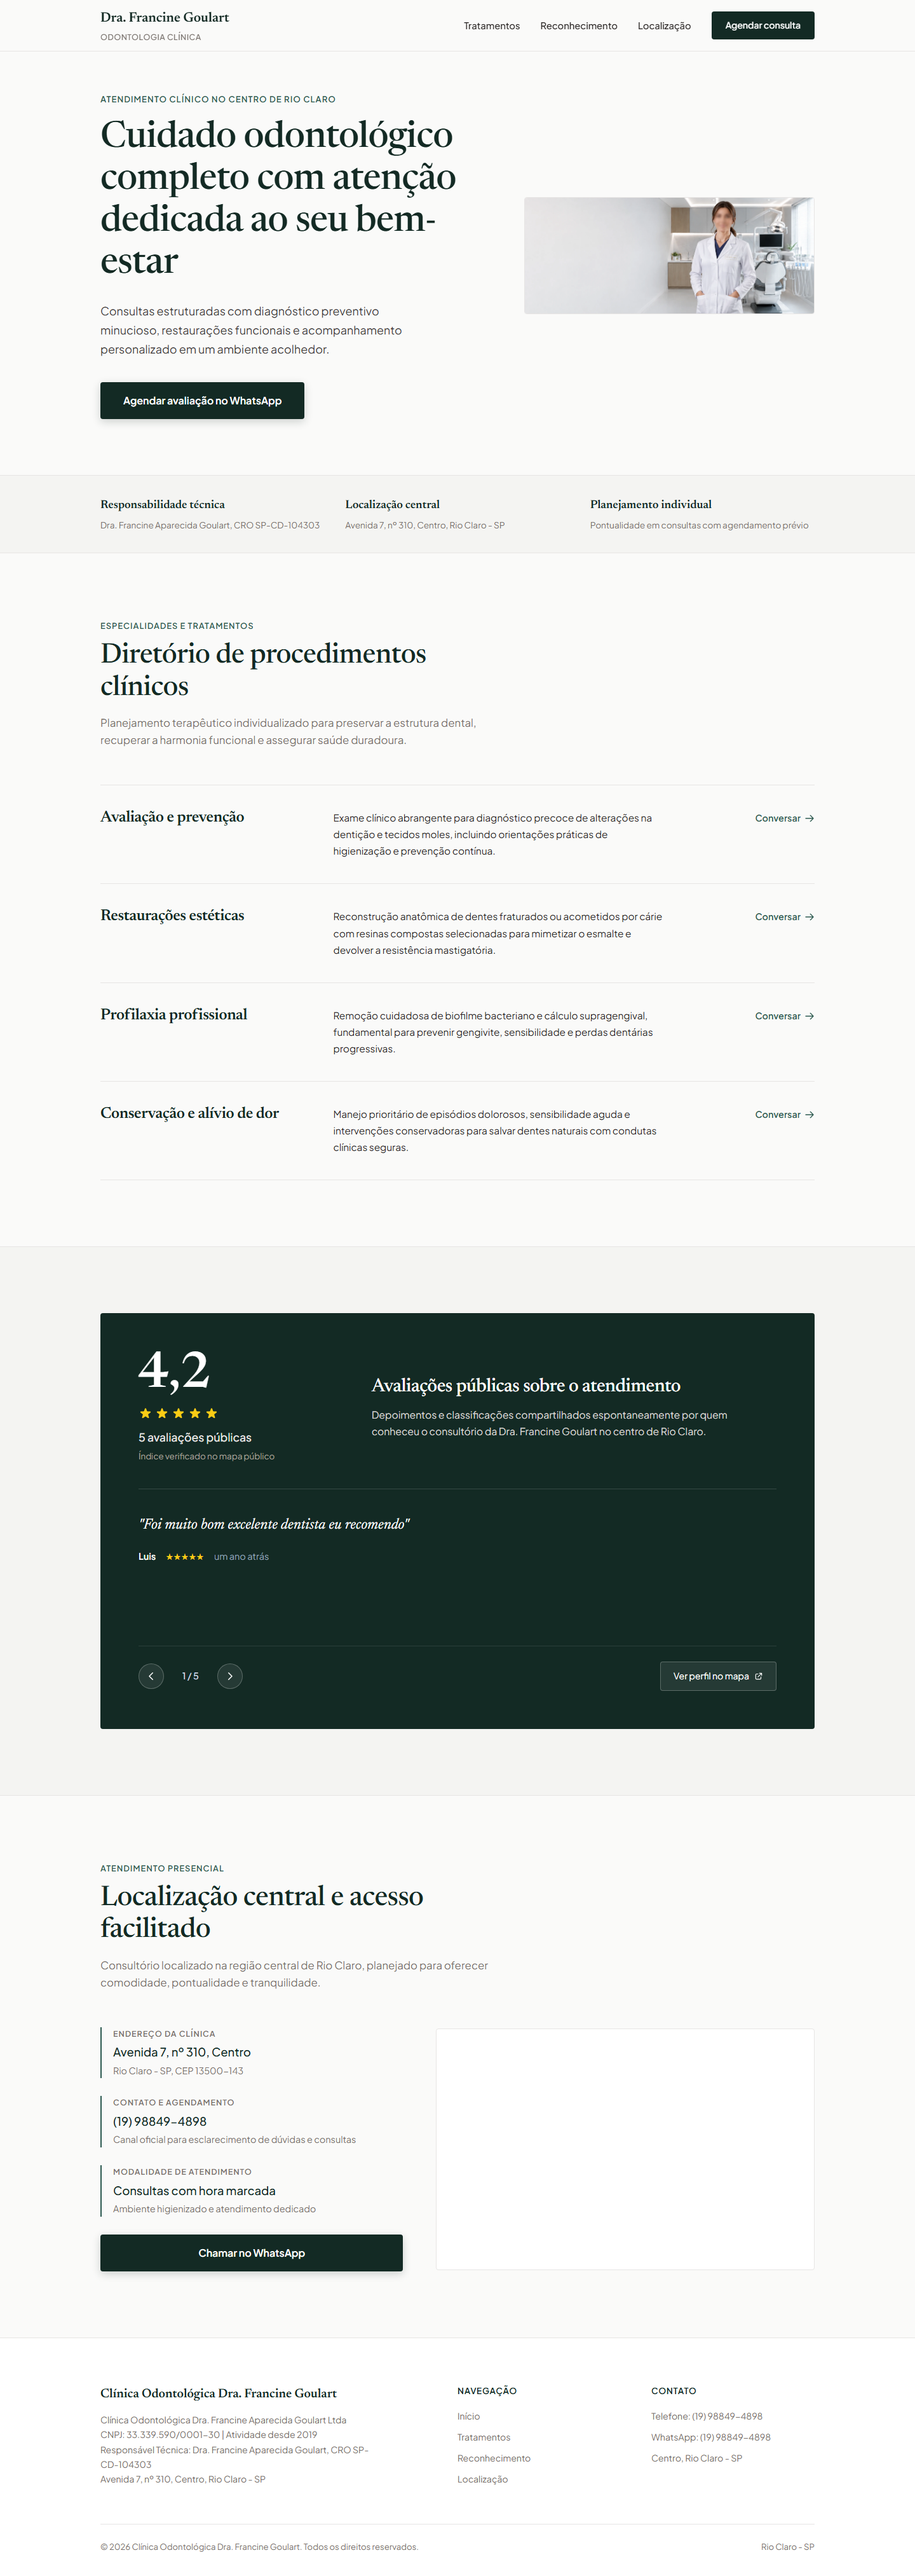
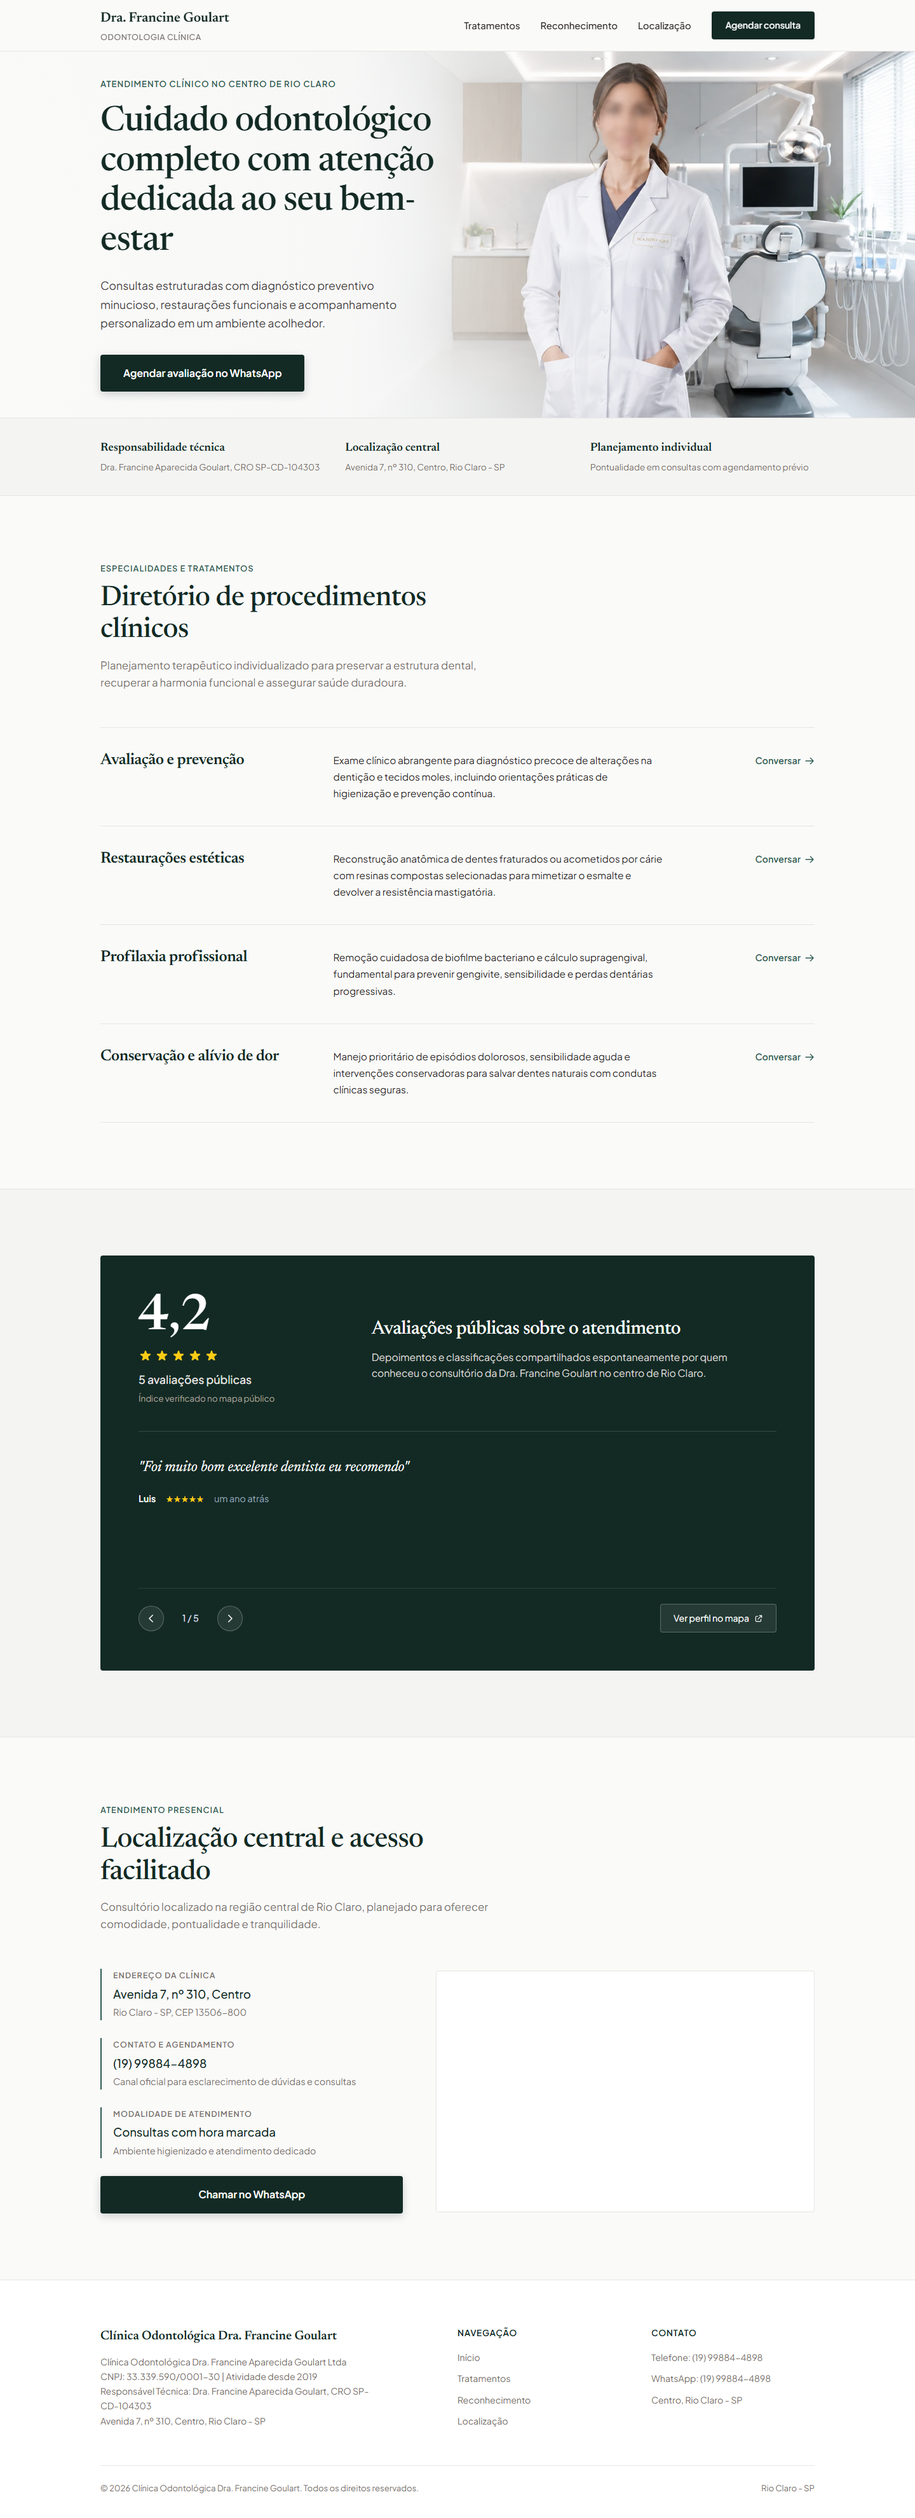
feat: initialize landing page layout and geometry measurement utility

diff --git a/research/design-pilot/b-opendesign/index.html b/research/design-pilot/b-opendesign/index.html
@@ -63,7 +63,7 @@
       position: sticky;
       top: 0;
       z-index: 50;
-      background: rgba(250, 250, 249, 0.94);
+      background: rgba(250, 250, 249, 0.95);
       backdrop-filter: blur(14px);
       border-bottom: 1px solid var(--hairline);
       transition: background 0.3s ease;
@@ -129,24 +129,49 @@
       background: var(--forest-hover);
     }
 
-    /* Hero Section */
+    /* Hero Section (Full-Bleed Expert Background) */
     .hero-section {
       position: relative;
+      width: 100%;
       background-color: var(--canvas);
-      padding: 64px 0 88px;
       border-bottom: 1px solid var(--hairline);
       overflow: hidden;
     }
 
-    .hero-grid {
-      display: grid;
-      grid-template-columns: 1.15fr 0.85fr;
-      gap: 48px;
+    .hero-media-plane {
+      position: relative;
+      width: 100%;
+      line-height: 0;
+    }
+
+    .hero-media-plane picture {
+      display: block;
+      width: 100%;
+    }
+
+    .hero-media-plane img[data-role="hero-image"] {
+      display: block;
+      width: 100%;
+      height: auto;
+      max-width: none;
+    }
+
+    .hero-overlay {
+      position: absolute;
+      inset: 0;
+      z-index: 2;
+      display: flex;
       align-items: center;
+      background: linear-gradient(90deg, rgba(250, 250, 249, 0.97) 0%, rgba(250, 250, 249, 0.93) 38%, rgba(250, 250, 249, 0.6) 55%, rgba(250, 250, 249, 0) 74%);
+      pointer-events: none;
+    }
+
+    .hero-container {
+      pointer-events: auto;
     }
 
     .hero-content {
-      max-width: 640px;
+      max-width: 580px;
     }
 
     .hero-meta-label {
@@ -159,16 +184,17 @@
     }
 
     .hero-title {
-      font-size: clamp(2.4rem, 4.2vw, 3.6rem);
+      font-size: clamp(2.3rem, 3.8vw, 3.4rem);
       margin-bottom: 24px;
       max-width: 580px;
+      line-height: 1.15;
     }
 
     .hero-desc {
-      font-size: 1.12rem;
-      line-height: 1.7;
+      font-size: 1.1rem;
+      line-height: 1.68;
       color: #44403c;
-      margin-bottom: 36px;
+      margin-bottom: 34px;
       max-width: 520px;
     }
 
@@ -189,22 +215,6 @@
     .btn-hero:hover {
       background: var(--forest-hover);
       transform: translateY(-2px);
-    }
-
-    .hero-media-card {
-      position: relative;
-      border-radius: var(--radius-sm);
-      overflow: hidden;
-      border: 1px solid var(--hairline);
-      background: #ffffff;
-    }
-
-    .hero-media-card picture,
-    .hero-media-card img {
-      display: block;
-      width: 100%;
-      height: auto;
-      object-fit: contain;
     }
 
     /* Editorial Detail Strip */
@@ -651,9 +661,6 @@
 
     /* Responsive */
     @media (max-width: 980px) {
-      .hero-grid {
-        grid-template-columns: 1fr;
-      }
       .directory-row {
         grid-template-columns: 1fr;
         gap: 12px;
@@ -679,12 +686,34 @@
       }
     }
 
+    @media (max-width: 767px) {
+      .hero-overlay {
+        position: relative;
+        inset: auto;
+        margin-top: -140px;
+        padding: 40px 0 48px;
+        background: linear-gradient(180deg, rgba(250, 250, 249, 0) 0%, rgba(250, 250, 249, 0.94) 18%, rgba(250, 250, 249, 1) 36%);
+        pointer-events: auto;
+      }
+      .hero-content {
+        max-width: 100%;
+      }
+      .hero-title {
+        font-size: 2.1rem;
+        margin-bottom: 16px;
+      }
+      .hero-desc {
+        font-size: 1rem;
+        margin-bottom: 24px;
+      }
+      .btn-hero {
+        width: 100%;
+      }
+    }
+
     @media (max-width: 640px) {
       .nav-menu {
         display: none;
-      }
-      .hero-section {
-        padding: 40px 0 56px;
       }
       .reviews-box {
         padding: 36px 24px;
@@ -720,27 +749,42 @@
         <a href="#procedimentos" class="nav-item">Tratamentos</a>
         <a href="#avaliacoes" class="nav-item">Reconhecimento</a>
         <a href="#consultorio" class="nav-item">Localização</a>
-        <a href="https://wa.me/5519988494898?text=Ol%C3%A1%2C%20gostaria%20de%20agendar%20uma%20avalia%C3%A7%C3%A3o%20na%20Cl%C3%ADnica%20Dra.%20Francine%20Goulart." class="btn-nav" target="_blank" rel="noopener noreferrer">Agendar consulta</a>
+        <a href="https://wa.me/5519998844898?text=Ol%C3%A1%2C%20gostaria%20de%20agendar%20uma%20avalia%C3%A7%C3%A3o%20na%20Cl%C3%ADnica%20Dra.%20Francine%20Goulart." class="btn-nav" target="_blank" rel="noopener noreferrer">Agendar consulta</a>
       </nav>
     </div>
   </header>
 
-  <!-- Hero Section -->
+  <!-- Hero Section (Full-Bleed Expert Background) -->
   <section 
     data-role="hero" 
     data-hero-layout="full-bleed-background" 
     data-hero-frame-policy="preserve-complete-frame" 
+    data-hero-expert-presentation="background" 
+    data-hero-mobile-layout="full-width-background" 
     class="hero-section" 
     id="inicio"
   >
-    <div class="container">
-      <div class="hero-grid">
+    <div class="hero-media-plane">
+      <picture>
+        <source media="(max-width: 767px)" srcset="assets/templates/dentistry-female-mobile.webp" width="941" height="1672">
+        <img 
+          data-role="hero-image"
+          data-image-context="illustrative" 
+          src="assets/templates/dentistry-female.webp" 
+          alt="Imagem ilustrativa de consultório odontológico no centro de Rio Claro"
+          width="1983"
+          height="793"
+        >
+      </picture>
+    </div>
+    <div class="hero-overlay">
+      <div class="container hero-container">
         <div class="hero-content">
           <div class="hero-meta-label">Atendimento clínico no centro de Rio Claro</div>
           <h1 class="hero-title">Cuidado odontológico completo com atenção dedicada ao seu bem-estar</h1>
           <p class="hero-desc">Consultas estruturadas com diagnóstico preventivo minucioso, restaurações funcionais e acompanhamento personalizado em um ambiente acolhedor.</p>
           <a 
-            href="https://wa.me/5519988494898?text=Ol%C3%A1%2C%20gostaria%20de%20agendar%20uma%20avalia%C3%A7%C3%A3o%20na%20Cl%C3%ADnica%20Dra.%20Francine%20Goulart." 
+            href="https://wa.me/5519998844898?text=Ol%C3%A1%2C%20gostaria%20de%20agendar%20uma%20avalia%C3%A7%C3%A3o%20na%20Cl%C3%ADnica%20Dra.%20Francine%20Goulart." 
             class="btn-hero"
             id="hero-cta"
             target="_blank" 
@@ -748,19 +792,6 @@
           >
             Agendar avaliação no WhatsApp
           </a>
-        </div>
-        <div class="hero-media-card">
-          <picture>
-            <source media="(max-width: 767px)" srcset="assets/templates/dentistry-female-mobile.webp" width="941" height="1672">
-            <img 
-              data-role="hero-image"
-              data-image-context="illustrative" 
-              src="assets/templates/dentistry-female.webp" 
-              alt="Imagem ilustrativa de consultório odontológico com espaço reservado para foto profissional"
-              width="1983"
-              height="793"
-            >
-          </picture>
         </div>
       </div>
     </div>
@@ -797,7 +828,7 @@
         <div class="directory-row">
           <h3 class="dir-title">Avaliação e prevenção</h3>
           <div class="dir-text">Exame clínico abrangente para diagnóstico precoce de alterações na dentição e tecidos moles, incluindo orientações práticas de higienização e prevenção contínua.</div>
-          <a href="https://wa.me/5519988494898?text=Ol%C3%A1%2C%20gostaria%20de%20conversar%20sobre%20avalia%C3%A7%C3%A3o%20e%20preven%C3%A7%C3%A3o." class="dir-action" target="_blank" rel="noopener noreferrer">
+          <a href="https://wa.me/5519998844898?text=Ol%C3%A1%2C%20gostaria%20de%20conversar%20sobre%20avalia%C3%A7%C3%A3o%20e%20preven%C3%A7%C3%A3o." class="dir-action" target="_blank" rel="noopener noreferrer">
             <span>Conversar</span>
             <svg width="16" height="16" fill="none" stroke="currentColor" viewBox="0 0 24 24"><path stroke-linecap="round" stroke-linejoin="round" stroke-width="2" d="M14 5l7 7m0 0l-7 7m7-7H3"></path></svg>
           </a>
@@ -806,7 +837,7 @@
         <div class="directory-row">
           <h3 class="dir-title">Restaurações estéticas</h3>
           <div class="dir-text">Reconstrução anatômica de dentes fraturados ou acometidos por cárie com resinas compostas selecionadas para mimetizar o esmalte e devolver a resistência mastigatória.</div>
-          <a href="https://wa.me/5519988494898?text=Ol%C3%A1%2C%20gostaria%20de%20conversar%20sobre%20restaura%C3%A7%C3%B5es%20est%C3%A9ticas." class="dir-action" target="_blank" rel="noopener noreferrer">
+          <a href="https://wa.me/5519998844898?text=Ol%C3%A1%2C%20gostaria%20de%20conversar%20sobre%20restaura%C3%A7%C3%B5es%20est%C3%A9ticas." class="dir-action" target="_blank" rel="noopener noreferrer">
             <span>Conversar</span>
             <svg width="16" height="16" fill="none" stroke="currentColor" viewBox="0 0 24 24"><path stroke-linecap="round" stroke-linejoin="round" stroke-width="2" d="M14 5l7 7m0 0l-7 7m7-7H3"></path></svg>
           </a>
@@ -815,7 +846,7 @@
         <div class="directory-row">
           <h3 class="dir-title">Profilaxia profissional</h3>
           <div class="dir-text">Remoção cuidadosa de biofilme bacteriano e cálculo supragengival, fundamental para prevenir gengivite, sensibilidade e perdas dentárias progressivas.</div>
-          <a href="https://wa.me/5519988494898?text=Ol%C3%A1%2C%20gostaria%20de%20agendar%20uma%20profilaxia." class="dir-action" target="_blank" rel="noopener noreferrer">
+          <a href="https://wa.me/5519998844898?text=Ol%C3%A1%2C%20gostaria%20de%20agendar%20uma%20profilaxia." class="dir-action" target="_blank" rel="noopener noreferrer">
             <span>Conversar</span>
             <svg width="16" height="16" fill="none" stroke="currentColor" viewBox="0 0 24 24"><path stroke-linecap="round" stroke-linejoin="round" stroke-width="2" d="M14 5l7 7m0 0l-7 7m7-7H3"></path></svg>
           </a>
@@ -824,7 +855,7 @@
         <div class="directory-row">
           <h3 class="dir-title">Conservação e alívio de dor</h3>
           <div class="dir-text">Manejo prioritário de episódios dolorosos, sensibilidade aguda e intervenções conservadoras para salvar dentes naturais com condutas clínicas seguras.</div>
-          <a href="https://wa.me/5519988494898?text=Ol%C3%A1%2C%20preciso%20de%20atendimento%20para%20al%C3%ADvio%20de%20dor%20odontol%C3%B3gica." class="dir-action" target="_blank" rel="noopener noreferrer">
+          <a href="https://wa.me/5519998844898?text=Ol%C3%A1%2C%20preciso%20de%20atendimento%20para%20al%C3%ADvio%20de%20dor%20odontol%C3%B3gica." class="dir-action" target="_blank" rel="noopener noreferrer">
             <span>Conversar</span>
             <svg width="16" height="16" fill="none" stroke="currentColor" viewBox="0 0 24 24"><path stroke-linecap="round" stroke-linejoin="round" stroke-width="2" d="M14 5l7 7m0 0l-7 7m7-7H3"></path></svg>
           </a>
@@ -980,12 +1011,12 @@
           <div class="loc-block">
             <div class="loc-label">Endereço da clínica</div>
             <div class="loc-main">Avenida 7, nº 310, Centro</div>
-            <div class="loc-sub">Rio Claro - SP, CEP 13500-143</div>
+            <div class="loc-sub">Rio Claro - SP, CEP 13506-800</div>
           </div>
 
           <div class="loc-block">
             <div class="loc-label">Contato e agendamento</div>
-            <div class="loc-main">(19) 98849-4898</div>
+            <div class="loc-main">(19) 99884-4898</div>
             <div class="loc-sub">Canal oficial para esclarecimento de dúvidas e consultas</div>
           </div>
 
@@ -997,7 +1028,7 @@
 
           <div>
             <a 
-              href="https://wa.me/5519988494898?text=Ol%C3%A1%2C%20gostaria%20de%20agendar%20um%20hor%C3%A1rio%20na%20Cl%C3%ADnica%20Dra.%20Francine%20Goulart." 
+              href="https://wa.me/5519998844898?text=Ol%C3%A1%2C%20gostaria%20de%20agendar%20um%20hor%C3%A1rio%20na%20Cl%C3%ADnica%20Dra.%20Francine%20Goulart." 
               class="btn-hero"
               style="width: 100%; text-align: center; justify-content: center;"
               target="_blank" 
@@ -1046,8 +1077,8 @@
         <div>
           <div class="footer-subhead">Contato</div>
           <ul class="footer-nav-list">
-            <li>Telefone: (19) 98849-4898</li>
-            <li>WhatsApp: (19) 98849-4898</li>
+            <li>Telefone: (19) 99884-4898</li>
+            <li>WhatsApp: (19) 99884-4898</li>
             <li>Centro, Rio Claro - SP</li>
           </ul>
         </div>
@@ -1061,7 +1092,7 @@
 
   <!-- Floating WhatsApp Action -->
   <a 
-    href="https://wa.me/5519988494898?text=Ol%C3%A1%2C%20gostaria%20de%20agendar%20uma%20avalia%C3%A7%C3%A3o%20na%20Cl%C3%ADnica%20Dra.%20Francine%20Goulart." 
+    href="https://wa.me/5519998844898?text=Ol%C3%A1%2C%20gostaria%20de%20agendar%20uma%20avalia%C3%A7%C3%A3o%20na%20Cl%C3%ADnica%20Dra.%20Francine%20Goulart." 
     class="floating-whatsapp"
     id="floating-whatsapp"
     data-role="floating-whatsapp"

diff --git a/research/design-pilot/measure_hero_geometry.py b/research/design-pilot/measure_hero_geometry.py
@@ -1,0 +1,41 @@
+import asyncio
+from pathlib import Path
+from playwright.async_api import async_playwright
+
+VIEWPORTS = [
+    {"name": "desktop_1440x900", "width": 1440, "height": 900},
+    {"name": "mobile_390x844", "width": 390, "height": 844, "is_mobile": True},
+]
+
+async def main():
+    site_dir = Path("sites/clinica-dra-francine-goulart-rio-claro").resolve()
+    html_file = site_dir / "index.html"
+    url = html_file.as_uri()
+
+    async with async_playwright() as p:
+        browser = await p.chromium.launch(headless=True)
+        for vp in VIEWPORTS:
+            context = await browser.new_context(
+                viewport={"width": vp["width"], "height": vp["height"]},
+                is_mobile=vp.get("is_mobile", False),
+            )
+            page = await context.new_page()
+            await page.goto(url, wait_until="domcontentloaded")
+            await page.wait_for_timeout(1000)
+
+            hero = page.locator('[data-role="hero"]')
+            hero_box = await hero.bounding_box()
+            hero_img = page.locator('[data-role="hero"] img[data-role="hero-image"]')
+            img_box = await hero_img.bounding_box()
+
+            vp_w = vp["width"]
+            img_w = img_box["width"] if img_box else 0
+            ratio = (img_w / vp_w) * 100
+
+            print(f"[{vp['name']}] Viewport Width: {vp_w}px | Hero Width: {hero_box['width']}px | Hero Img Width: {img_w}px | Ratio: {ratio:.2f}% | >=98%: {ratio >= 98.0}")
+
+            await context.close()
+        await browser.close()
+
+if __name__ == "__main__":
+    asyncio.run(main())

diff --git a/prospector-de-sites/autonomous_site_review.py b/prospector-de-sites/autonomous_site_review.py
@@ -32,7 +32,12 @@ def _portable_design_judge_check(manifest: dict, design_read: str, review: core.
     if not cfg.get("required", True):
         return
 
-    if re.search(r"(?im)^\s*GPT_TASTE_READ\s*:\s*PASS\s*$", design_read):
+    has_gpt_taste = bool(
+        re.search(r"(?im)^\s*GPT_TASTE_READ\s*:\s*PASS\s*$", design_read)
+        or _design_value(design_read, "GPT_TASTE_PATH")
+        or _design_value(design_read, "GPT_TASTE_SHA256")
+    )
+    if has_gpt_taste:
         core._legacy_check_gpt_taste(manifest, design_read, review)
         return
 
